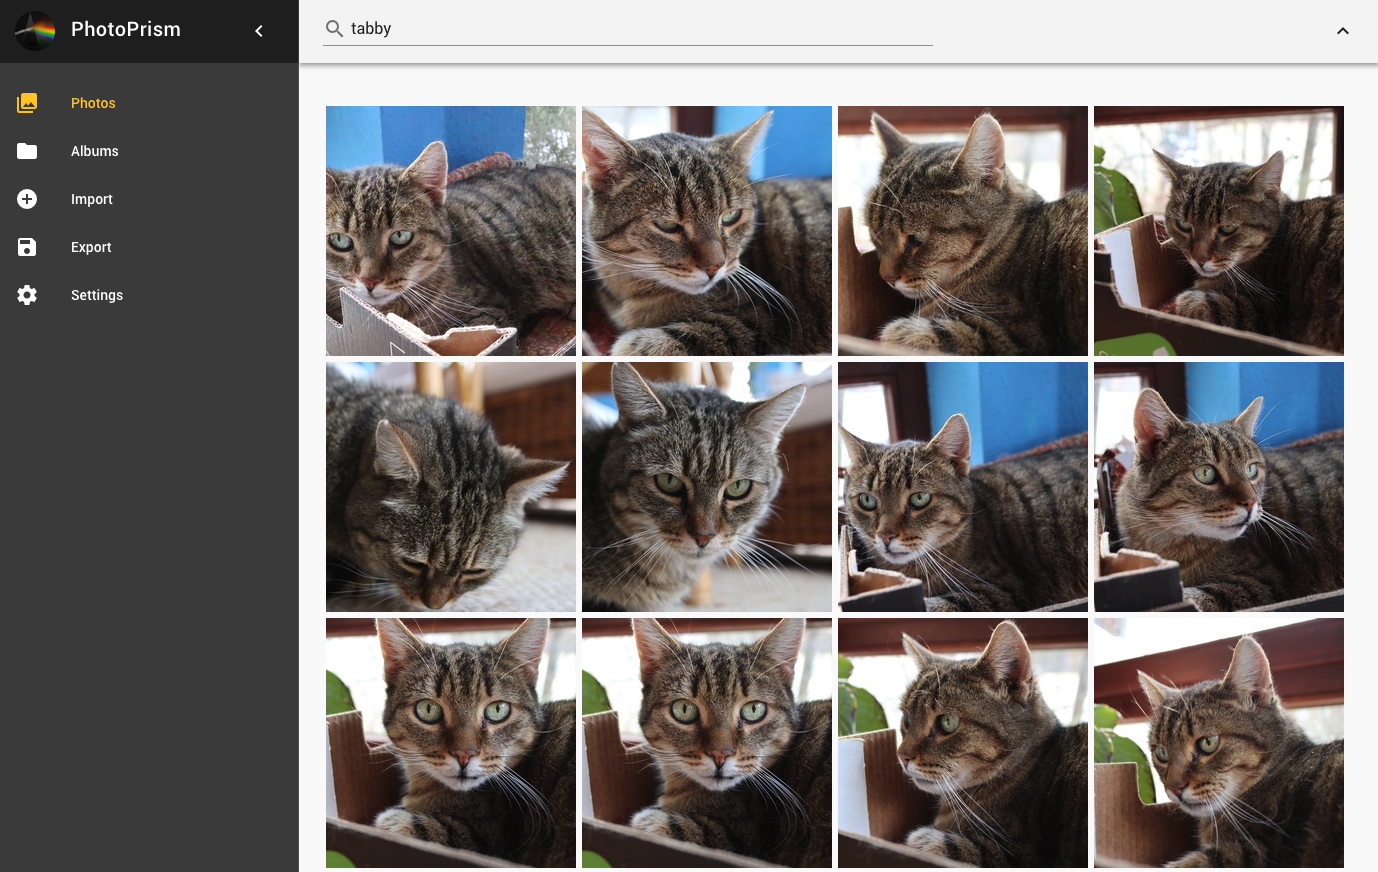
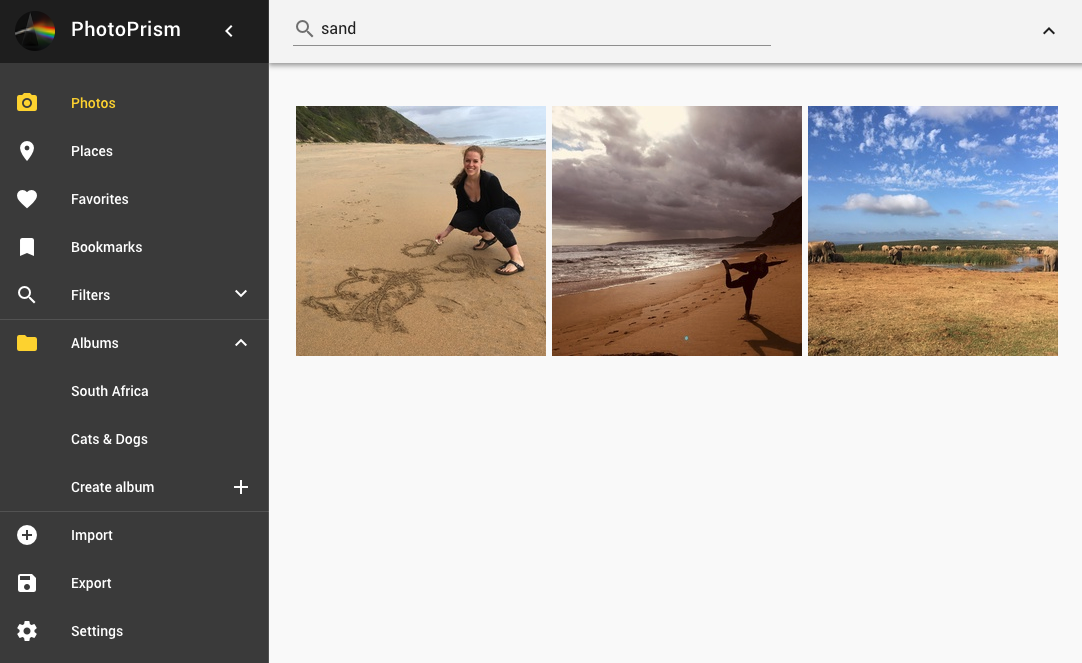
Proof-of-concept for main navigation

diff --git a/frontend/src/component/app-navigation.vue b/frontend/src/component/app-navigation.vue
@@ -35,18 +35,153 @@
                 </v-list-tile-action>
             </v-list-tile>
 
-            <v-list-tile
-                    v-for="item in items"
-                    :key="item.title"
-                    :to="{ name: item.route }"
-                    @click=""
-            >
+            <v-list-tile to="/photos" @click="">
                 <v-list-tile-action>
-                    <v-icon>{{ item.icon }}</v-icon>
+                    <v-icon>photo_camera</v-icon>
                 </v-list-tile-action>
 
                 <v-list-tile-content>
-                    <v-list-tile-title>{{ item.title }}</v-list-tile-title>
+                    <v-list-tile-title>Photos</v-list-tile-title>
+                </v-list-tile-content>
+            </v-list-tile>
+
+            <v-list-tile to="/places" @click="">
+                <v-list-tile-action>
+                    <v-icon>place</v-icon>
+                </v-list-tile-action>
+
+                <v-list-tile-content>
+                    <v-list-tile-title>Places</v-list-tile-title>
+                </v-list-tile-content>
+            </v-list-tile>
+
+            <v-list-tile to="/favorites" @click="">
+                <v-list-tile-action>
+                    <v-icon>favorite</v-icon>
+                </v-list-tile-action>
+
+                <v-list-tile-content>
+                    <v-list-tile-title>Favorites</v-list-tile-title>
+                </v-list-tile-content>
+            </v-list-tile>
+
+            <v-list-tile to="/bookmarks" @click="">
+                <v-list-tile-action>
+                    <v-icon>bookmark</v-icon>
+                </v-list-tile-action>
+
+                <v-list-tile-content>
+                    <v-list-tile-title>Bookmarks</v-list-tile-title>
+                </v-list-tile-content>
+            </v-list-tile>
+
+            <v-list-tile v-if="mini" to="/filters" @click="">
+                <v-list-tile-action>
+                    <v-icon>search</v-icon>
+                </v-list-tile-action>
+
+                <v-list-tile-content>
+                    <v-list-tile-title>Filters</v-list-tile-title>
+                </v-list-tile-content>
+            </v-list-tile>
+
+            <v-list-group v-if="!mini" prepend-icon="search" no-action>
+                <v-list-tile slot="activator" to="/filters" @click="">
+                    <v-list-tile-content>
+                        <v-list-tile-title>Filters</v-list-tile-title>
+                    </v-list-tile-content>
+                </v-list-tile>
+
+                <v-list-tile @click="">
+                    <v-list-tile-content>
+                        <v-list-tile-title>Canon EOS 6D</v-list-tile-title>
+                    </v-list-tile-content>
+                </v-list-tile>
+
+                <v-list-tile @click="">
+                    <v-list-tile-content>
+                        <v-list-tile-title>iPhone</v-list-tile-title>
+                    </v-list-tile-content>
+                </v-list-tile>
+
+                <v-list-tile @click="">
+                    <v-list-tile-content>
+                        <v-list-tile-title>Create filter</v-list-tile-title>
+                    </v-list-tile-content>
+
+                    <v-list-tile-action>
+                        <v-icon>add</v-icon>
+                    </v-list-tile-action>
+                </v-list-tile>
+            </v-list-group>
+
+            <v-list-tile v-if="mini" to="/albums" @click="">
+                <v-list-tile-action>
+                    <v-icon>folder</v-icon>
+                </v-list-tile-action>
+
+                <v-list-tile-content>
+                    <v-list-tile-title>Albums</v-list-tile-title>
+                </v-list-tile-content>
+            </v-list-tile>
+
+            <v-list-group v-if="!mini" prepend-icon="folder" no-action>
+                <v-list-tile slot="activator" to="/albums" @click="">
+                    <v-list-tile-content>
+                        <v-list-tile-title>Albums</v-list-tile-title>
+                    </v-list-tile-content>
+                </v-list-tile>
+
+                <v-list-tile @click="">
+                    <v-list-tile-content>
+                        <v-list-tile-title>South Africa</v-list-tile-title>
+                    </v-list-tile-content>
+                </v-list-tile>
+
+                <v-list-tile @click="">
+                    <v-list-tile-content>
+                        <v-list-tile-title>Cats &amp; Dogs</v-list-tile-title>
+                    </v-list-tile-content>
+                </v-list-tile>
+
+                <v-list-tile @click="">
+                    <v-list-tile-content>
+                        <v-list-tile-title>Create album</v-list-tile-title>
+                    </v-list-tile-content>
+
+                    <v-list-tile-action>
+                        <v-icon>add</v-icon>
+                    </v-list-tile-action>
+                </v-list-tile>
+            </v-list-group>
+
+            <v-list-tile to="/import" @click="">
+                <v-list-tile-action>
+                    <v-icon>add_circle</v-icon>
+                </v-list-tile-action>
+
+                <v-list-tile-content>
+                    <v-list-tile-title>Import</v-list-tile-title>
+                </v-list-tile-content>
+            </v-list-tile>
+
+            <v-list-tile to="/export" @click="">
+                <v-list-tile-action>
+                    <v-icon>save</v-icon>
+                </v-list-tile-action>
+
+                <v-list-tile-content>
+                    <v-list-tile-title>Export</v-list-tile-title>
+                </v-list-tile-content>
+            </v-list-tile>
+
+            <v-list-tile to="/settings" @click="">
+                <v-list-tile-action>
+                    <v-icon>settings</v-icon>
+                </v-list-tile-action>
+
+                <v-list-tile-content>
+                    <v-list-tile-title>Settings</v-list-tile-title>
                 </v-list-tile-content>
             </v-list-tile>
         </v-list>
@@ -63,7 +198,11 @@
             return {
                 items: [
                     { title: 'Photos', route: 'photos', icon: 'photo_library' },
+                    { title: 'Filters', route: 'filters', icon: 'search' },
                     { title: 'Albums', route: 'albums', icon: 'folder' },
+                    { title: 'Favorites', route: 'favorites', icon: 'favorite' },
+                    { title: 'Bookmarks', route: 'bookmarks', icon: 'bookmark' },
+                    { title: 'Places', route: 'places', icon: 'place' },
                     { title: 'Import', route: 'import', icon: 'add_circle' },
                     { title: 'Export', route: 'export', icon: 'save' },
                     { title: 'Settings', route: 'settings', icon: 'settings' },

diff --git a/frontend/src/app/routes.js b/frontend/src/app/routes.js
@@ -3,10 +3,15 @@ import Albums from 'app/pages/albums.vue';
 import Import from 'app/pages/import.vue';
 import Export from 'app/pages/export.vue';
 import Settings from 'app/pages/settings.vue';
+import Todo from 'app/pages/todo.vue';
 
 export default [
     { name: 'home', path: '/', redirect: '/photos' },
     { name: 'photos', path: '/photos', component: Photos },
+    { name: 'filters', path: '/filters', component: Todo },
+    { name: 'bookmarks', path: '/bookmarks', component: Todo },
+    { name: 'favorites', path: '/favorites', component: Todo },
+    { name: 'places', path: '/places', component: Todo },
     { name: 'albums', path: '/albums', component: Albums },
     { name: 'import', path: '/import', component: Import },
     { name: 'export', path: '/export', component: Export },

diff --git a/frontend/src/app/pages/todo.vue b/frontend/src/app/pages/todo.vue
@@ -1,0 +1,36 @@
+<template>
+    <v-container fluid>
+        <h1>TODO</h1>
+        <p class="md-subheading">
+            This page is not implemented yet
+        </p>
+    </v-container>
+</template>
+
+<script>
+    export default {
+        name: 'todo',
+        data() {
+            return {
+            };
+        },
+        methods: {
+        }
+    };
+</script>
+
+<style scoped>
+    h1, h2 {
+        font-weight: normal;
+    }
+
+    ul {
+        list-style-type: none;
+        padding: 0;
+    }
+
+    li {
+        display: inline-block;
+        margin: 0 10px;
+    }
+</style>

diff --git a/frontend/src/app/pages/photos.vue b/frontend/src/app/pages/photos.vue
@@ -87,7 +87,7 @@
                             <span class="center" v-if="photo.Location">
                             <v-tooltip bottom>
                                 <a slot="activator" class="location" target="_blank" :href="photo.getGoogleMapsLink()">{{ photo.Location.Country }}</a>
-                                <span :html="photo.Location.DisplayName"></span>
+                                <span>{{ photo.Location.DisplayName }}</span>
                             </v-tooltip>
                         </span>
                             <span class="right">

diff --git a/frontend/css/app.css b/frontend/css/app.css
@@ -187,3 +187,11 @@ main div.page-settings {
     display: inline;
     cursor: pointer;
 }
+
+.v-badge__badge {
+    font-size: 12px;
+    height: 19px;
+    width: 19px;
+    right: -20px;
+    top: -8px;
+}
